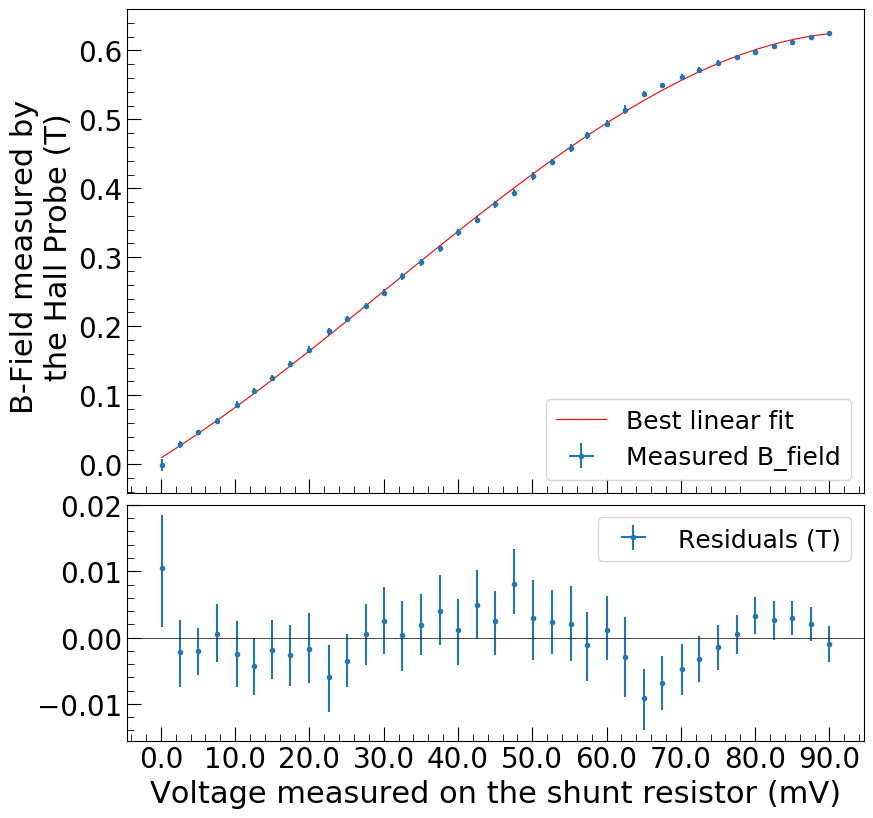
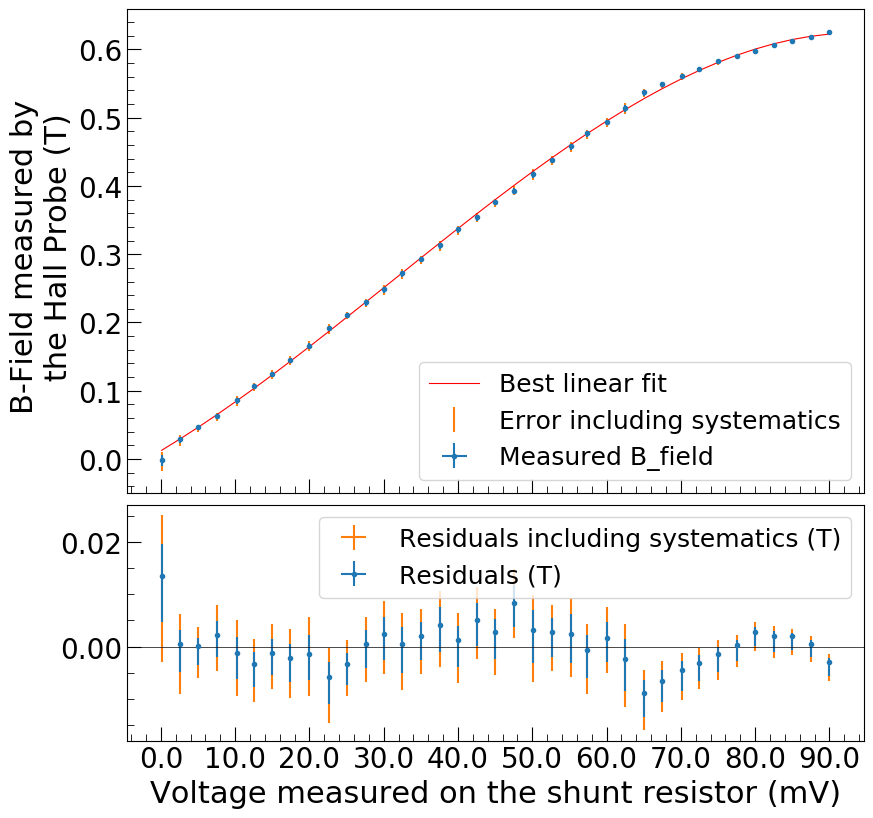
fixed everything

diff --git a/Lab1_Zeeman/plot_calibration_PS.py b/Lab1_Zeeman/plot_calibration_PS.py
@@ -18,57 +18,60 @@ err_V_HP = V_HP*0.003+0.001+0.0005
 V_HP_min = V_HP-err_V_HP
 V_HP_max = V_HP+err_V_HP
 
+
 # #Used for fitting purposes
 # x = np.linspace(V_PS[0], V_PS[-1], 10000)
 
 
-def fit_B_field(B):
+def fit_B_field(B,err):
     """Compute the least-square fit of the B-field and computes the error on the fit 
     using the covariance matrix"""
-    p, cov = np.polyfit(V_PS, B,3, cov=True)
+    p, cov = np.polyfit(V_PS, B,3, cov=True, w=1/err)
 
     cov_err = np.zeros(len(p))
     for i in range(len(p)):
         cov_err[i] = np.sqrt(cov[i,i])
-    p_min = p - cov_err
-    p_max = p + cov_err
-    return [p,p_min,p_max]
+    print(p)
+    print(cov_err)
+    return p,cov_err
 
-def convert_V_to_B(V_HP,V_PS, bound=None, fit = True):
+def B_err(V,V_err,p,cov_err):
+    """Compute the error on B by doing the error propagation on the fit"""
+    B_err_sq = (p[0]*V**2+p[1]*V+p[2])**2*V_err**2+V**6*cov_err[0]**2+V**4*cov_err[1]**2+V**2*cov_err[2]**2+cov_err[3]**2
+    B_err = np.sqrt(B_err_sq)
+    return B_err
+
+def convert_V_to_B(V_HP,V_PS, V_min, V_max):
     """Convert the voltage in B-field using the interpolation of the values given in
     the appendix table. Procede to a linear fit of the data for the both the upper and lower limits
     on the B-field as well as the data."""
     #Use the interpolation to find the B-field for the given voltage
     #Define upper and lower bound on the B-field
     B, err = interpolation_hall_probe(V_HP)
-    if bound==None:
-        p = fit_B_field(B)[0]
-    elif bound == 'lower':
-        B = B-err
-        p = fit_B_field(B)[1]
-    elif bound == 'upper':
-        B = B+err
-        p = fit_B_field(B)[2]
-    else:
-        print('This bound doesn\'t exist...')
-        print('Choose between "lower" or "upper" or leave empty to perform on the measured points!')
-        print('Exiting...')
-        exit(1)
+    B_min,err_min = interpolation_hall_probe(V_min)
+    B_min = B_min-err_min
+    B_max,err_max = interpolation_hall_probe(V_max)
+    B_max = B_max-err_max
+    B_sys_min,err_min = interpolation_hall_probe(V_HP_min-0.0013243447)
+    B_sys_min = B_sys_min - err_min
+    B_sys_max,err_max = interpolation_hall_probe(V_HP_max+0.0013243447)
+    B_sys_max = B_sys_max - err_max
 
-    if fit == True:
-        fit = np.polyval(p,V_PS)
-
+    p,cov_err = fit_B_field(B,B_max-B_min)
+    fit_err = B_err(V_PS,0.001,p,cov_err)
+    fit = np.polyval(p,V_PS)
     model = lambda V: np.polyval(p,V)
-    return B, fit, model
+    error = lambda V: B_err(V,0.001,p,cov_err)
+    return B,B_min,B_max,B_sys_min, B_sys_max, fit,fit_err,model,error
 
 
 
-B, fit, model   = convert_V_to_B(V_HP, V_PS)
-print(model(89.9))
-B_min, fit_min, model_min  = convert_V_to_B(V_HP_min, V_PS, bound='lower')
-B_max, fit_max, model_max = convert_V_to_B(V_HP_max, V_PS, bound='upper')
+B,B_min,B_max,B_sys_min, B_sys_max, fit,fit_err,model,error   = convert_V_to_B(V_HP, V_PS, V_HP_min, V_HP_max)
 
-#print(model(20), model(20)-model_min(19.9), model_max(20.1)-model(20))
+print(model(60.7))
+print(error(60.7))
+
+
 
 fig = plt.figure(figsize=(9.5,9.5))
 gs = gridspec.GridSpec(ncols=1, nrows=3, figure=fig, wspace=0)
@@ -76,8 +79,9 @@ ax1 = fig.add_subplot(gs[0:2, :])
 ax2 = fig.add_subplot(gs[2, :])
 gs.update(wspace=0.05, hspace=0.05)
 
-#ax1.fill_between(V_PS,fit, color='gray', alpha=0.7, label='Error on linear fit')
-ax1.errorbar(V_PS, B,xerr=0.1,yerr=[B-B_min,B_max-B], label='Measured B_field', fmt='.')
+#ax1.fill_between(V_PS,fit-fit_err,fit+fit_err, color='gray', alpha=0.7, label='Error on linear fit')
+ax1.errorbar(V_PS, B,yerr=[B-B_sys_min, B_sys_max-B], label='Error including systematics', fmt='none', color='tab:orange')
+ax1.errorbar(V_PS, B,xerr=0.1,yerr=[B-B_min,B_max-B], label='Measured B_field', fmt='.', color='tab:blue')
 ax1.plot(V_PS, fit, linewidth=0.8, label='Best linear fit', color='r')
 ax1.set_ylabel('B-Field measured by \n the Hall Probe (T)', size = 22)
 ax1.tick_params(axis="y", labelsize=20 )
@@ -91,7 +95,8 @@ ax1.legend(loc=4, prop={'size': 18})
 
 
 # ax2.plot(V_PS,fit_true-B_true,'.', label='Residuals', markersize=10)
-ax2.errorbar(V_PS, fit-B, yerr=[B-B_min,B_max-B],xerr=0.1, label='Residuals (T)', fmt='.')
+ax2.errorbar(V_PS, fit-B, yerr=[B-B_sys_min, B_sys_max-B],xerr=0.1, label='Residuals including systematics (T)', fmt='none', color='tab:orange')
+ax2.errorbar(V_PS, fit-B, yerr=[B-B_min,B_max-B],xerr=0.1, label='Residuals (T)', fmt='.', color='tab:blue')
 print(np.sum((fit-B/B_max-B_min)**2/(len(V_PS)-3)))
 ax2.axhline(color='k', linewidth=0.5)
 ax2.tick_params(axis="both", labelsize=20)

diff --git a/Lab1_Zeeman/ErrorPropation.py b/Lab1_Zeeman/ErrorPropation.py
@@ -1,0 +1,21 @@
+import numpy as np 
+
+
+h = 6.6260705e-34
+c = 299792458
+
+
+def Error_ub(B,B_err, delta, delta_err, Delta, Delta_err):
+	fac = h*c/(4*B*0.004*Delta)
+	err_sq = delta_err**2+delta**2*B_err*2/B**2+delta**2*Delta_err**2/Delta**2
+	err = fac*np.sqrt(err_sq)
+	return err
+
+
+
+err_60 = Error_ub(0.499395497592118, 0.028077959566550815, 3.26E+04,1.06E+04,3.25E+05,1.75E+04)
+err_89_ab = Error_ub(0.6223406675736655, 0.068219427819598046, 1.38E+05,3.96E+04,4.14E+05,4.91E+04)
+err_89_cd = Error_ub(0.6223406675736655, 0.068219427819598046, 1.36E+05,3.69E+04,4.14E+05,4.91E+04)
+print(err_60)
+print(err_89_ab)
+print(err_89_cd)
